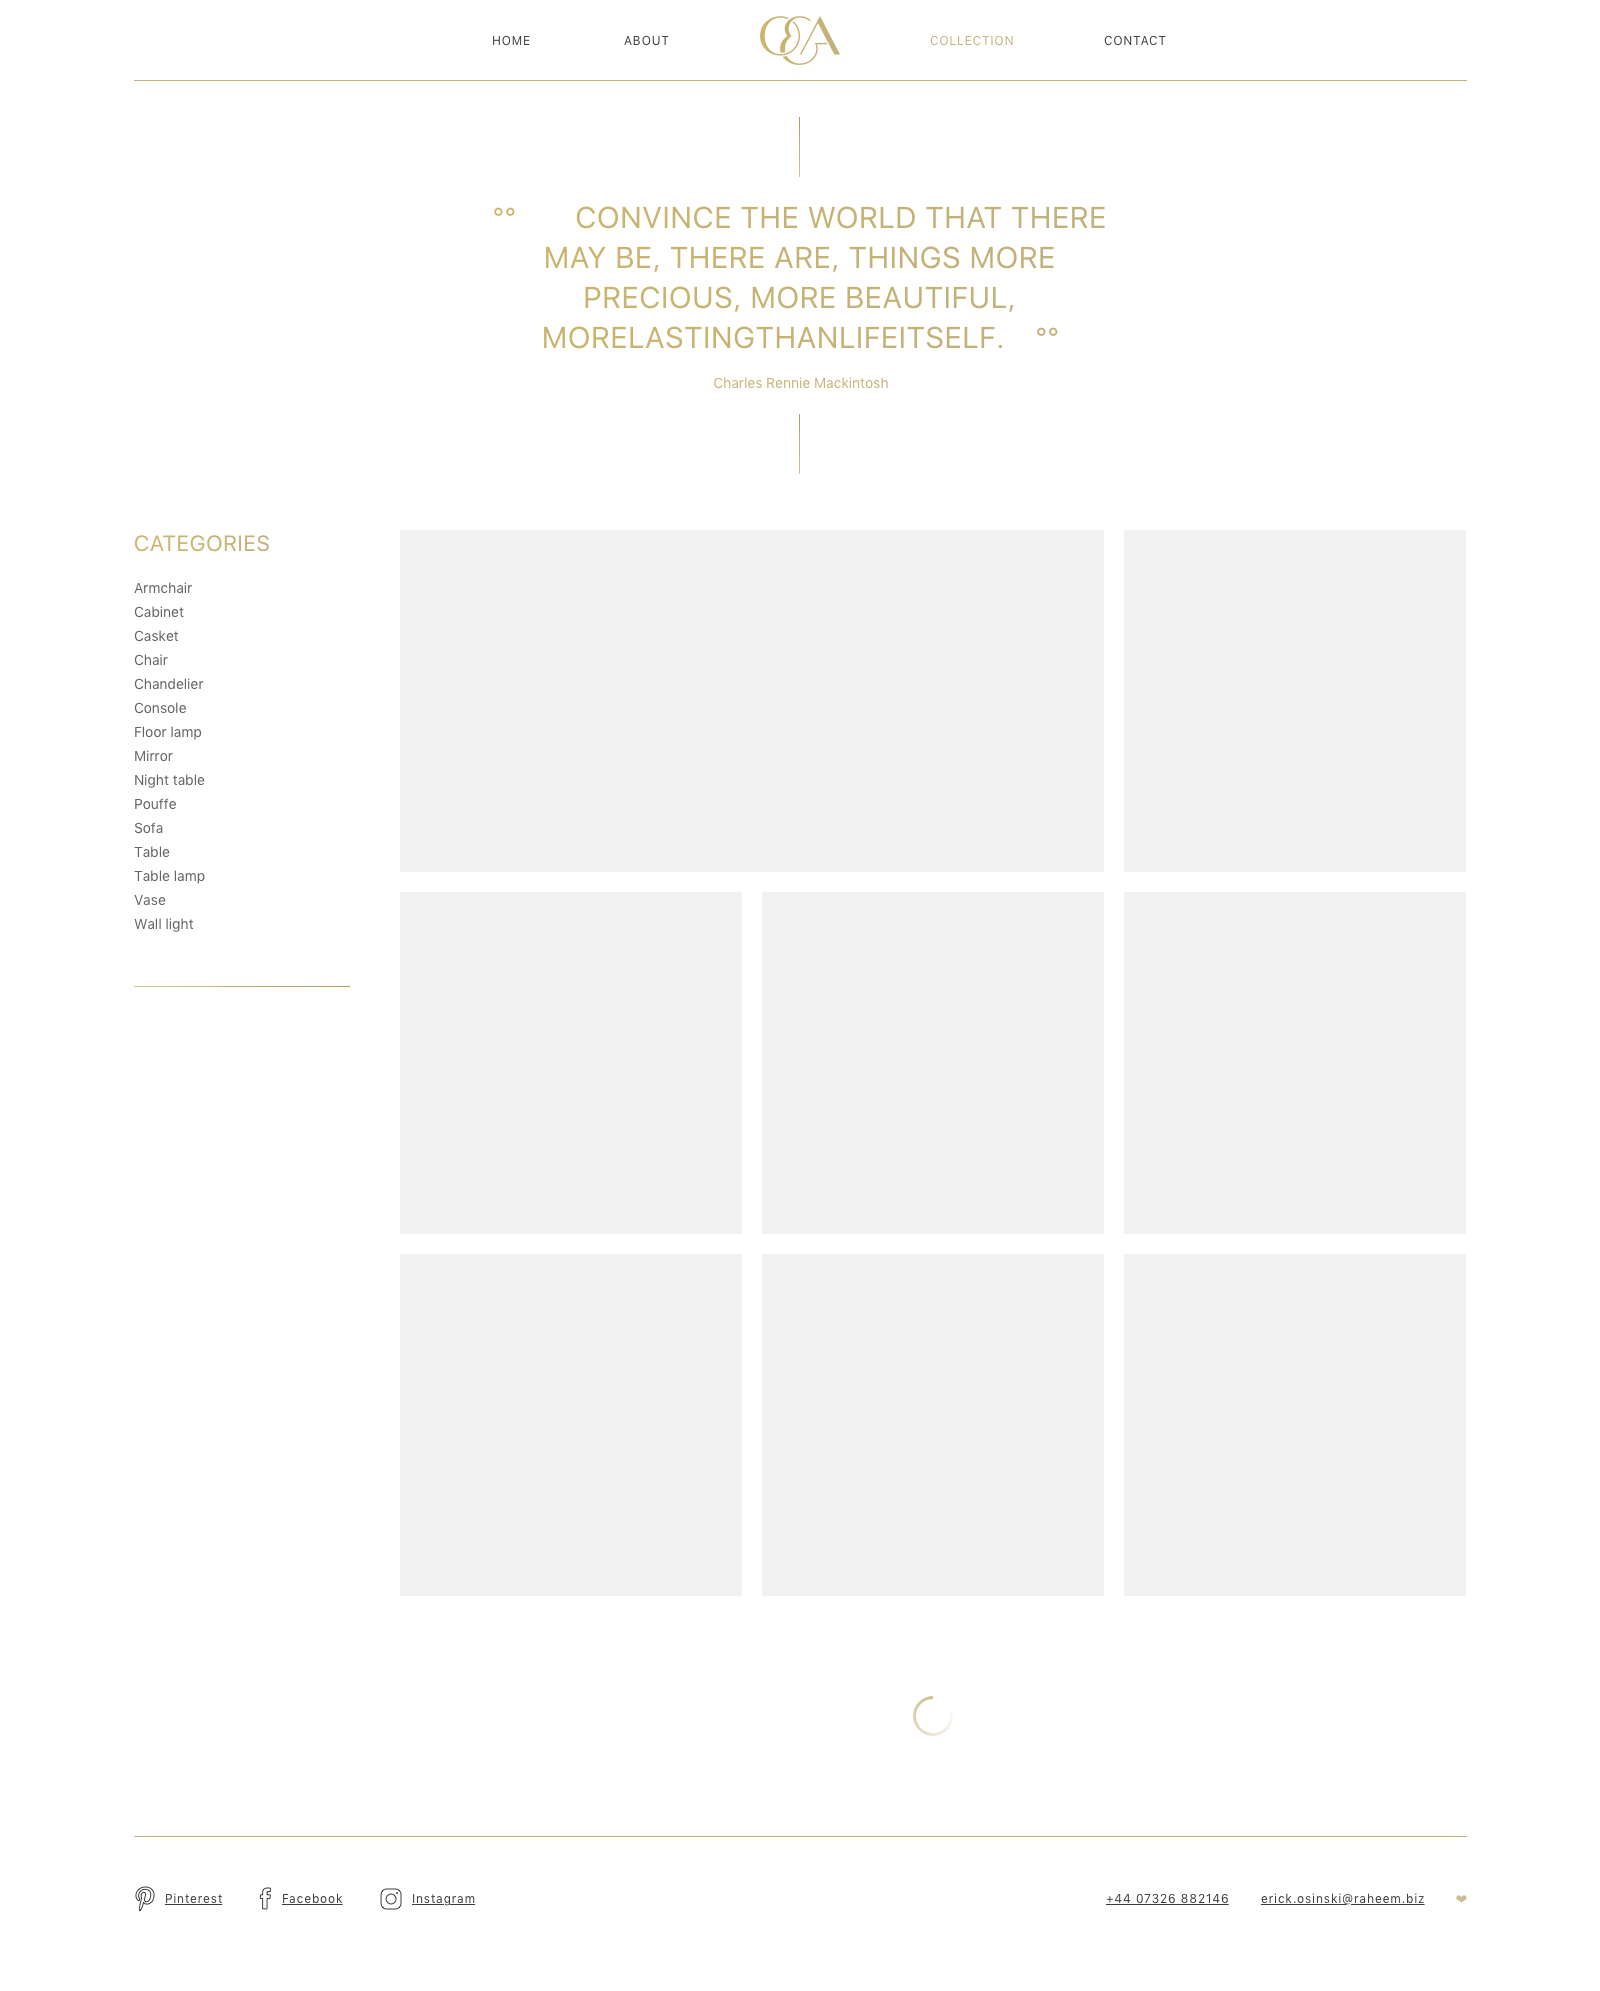
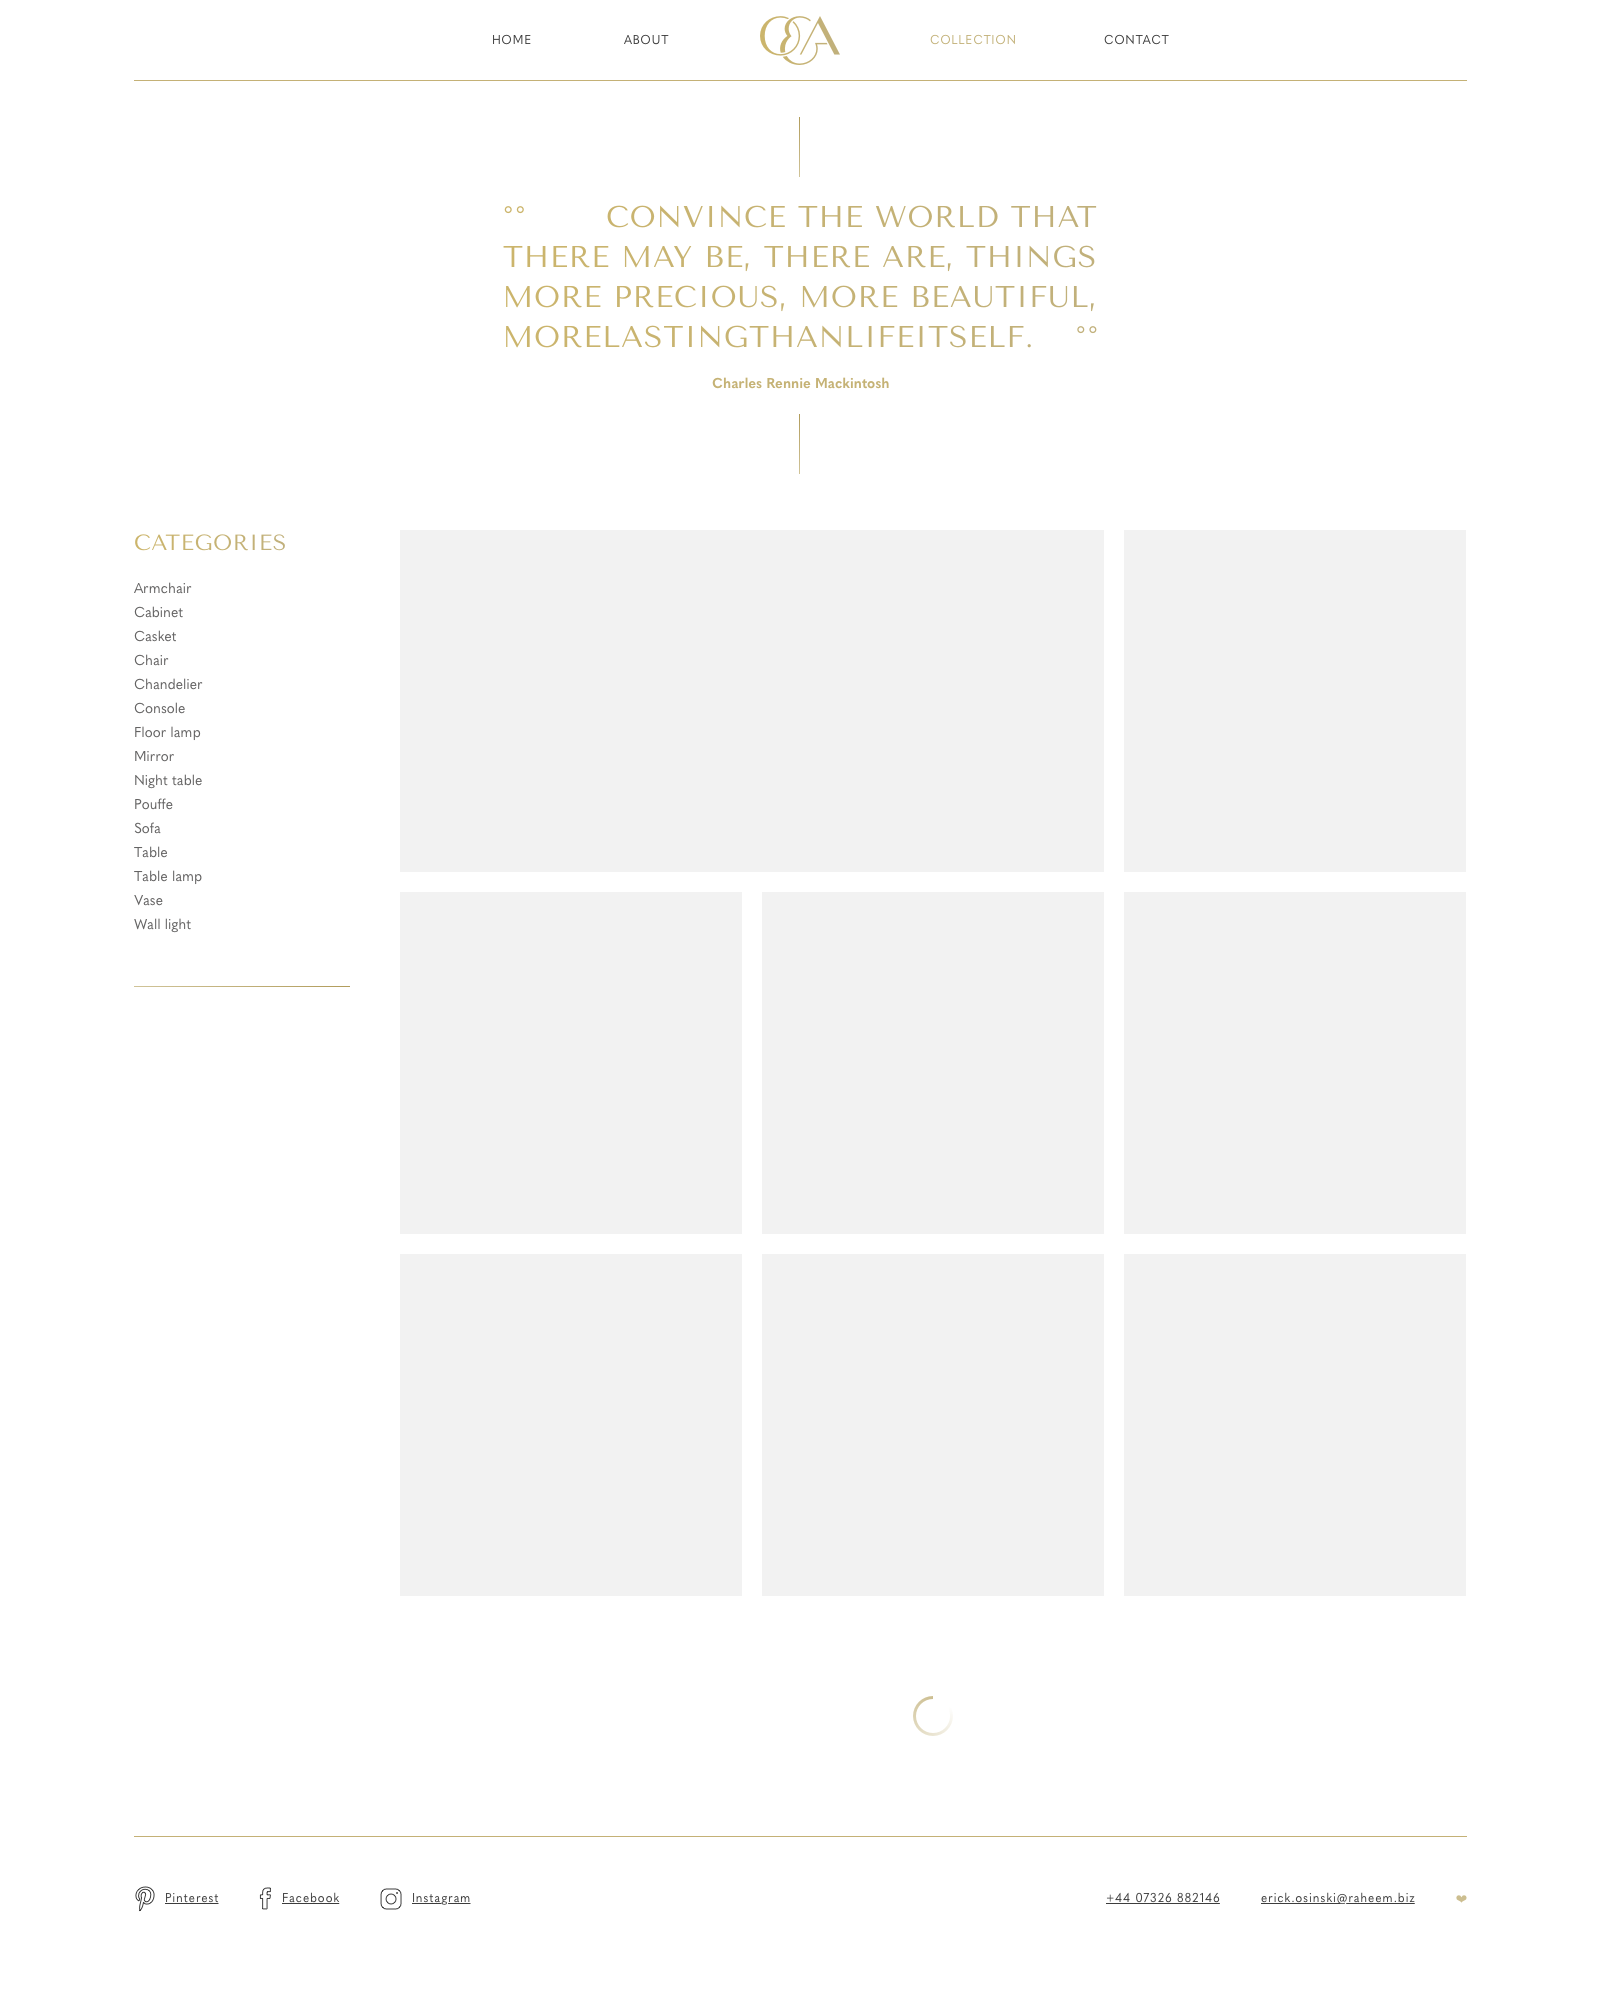
Collection page

diff --git a/src/sass/style.sass b/src/sass/style.sass
@@ -52,6 +52,9 @@ body
   letter-spacing: 0.86px
   max-width: 1600px
   margin: 0 auto
+  text-rendering: optimizeLegibility
+  -webkit-font-smoothing: antialiased
+  -moz-osx-font-smoothing: grayscale
 
 =gradient-text
   // color: $primary-color
@@ -84,4 +87,133 @@ body
   text-transform: uppercase
   text-align: center
 
+.section-title
+  +gradient-text-simple
+  +tenor
+
+  font-size: 22px
+  text-transform: uppercase
+
 @import ./blocks/index
+
+.quotation-block
+  text-align: center
+  max-width: 637px
+  padding-top: 80px
+  padding-bottom: 80px
+  position: relative
+  margin: 36px auto 56px
+
+
+  &::before,
+  &::after
+    content: ''
+    position: absolute
+    left: 50%
+    margin-left: -1px
+    display: block
+    width: 1px
+    height: 60px
+    background: #C1B07A
+    background-image: linear-gradient(0deg, rgba(255,255,255,0.25) 0%, rgba(0,0,0,0.25) 100%)
+
+  &::after
+    top: 0
+  &::before
+    bottom: 0
+
+  .text
+    display: inline-block
+    +tenor
+    font-size: 30px
+    color: $primary-text-color
+    line-height: 40px
+    max-width: 637px
+    text-align: justify
+    &::before
+      content: '°°       '
+    &::after
+      content: '       °°'
+      white-space: nowrap
+  .author
+    display: inline-block
+    font-weight: bold
+    color: #c5b275
+    letter-spacing: 0
+    line-height: 24px
+    margin-top: 14px
+
+
+.categories-block
+  text-align: left
+
+  &::after
+    content: ''
+    margin-top: 50px
+    display: block
+    width: 100%
+    height: 1px
+    background: #C1B07A
+    background-image: linear-gradient(90deg, rgba(255,255,255,0.25) 0%, rgba(0,0,0,0.25) 100%)
+
+  .list
+    margin-top: 20px
+    li
+      color: #646363
+      line-height: 24px
+    a
+      color: inherit
+
+.collection-gallery
+  font-size: 0
+  line-height: 0
+  margin: -10px
+
+  .item
+    display: inline-block
+    width: 33.3333%
+    position: relative
+    padding: 10px
+    background-size: cover
+    background-position: 0 0
+    background-repeat: no-repeat
+
+    &__in
+      width: 100%
+
+    &_doubled
+      width: 66.6666%
+
+    img
+      width: 100%
+      height: 100%
+
+@keyframes rotate
+  from
+    transform: rotate(0deg)
+  to
+    transform: rotate(359deg)
+
+.collection-gallery-loader
+  display: inline-block
+
+  img
+    height: 40px
+    width: 40px
+    animation: rotate 1s linear infinite
+
+.collection-page
+  display: flex
+  flex-direction: row
+  flex-wrap: nowrap
+  padding: 0 134px 100px
+
+  &__categories
+    flex: 0 0 216px
+  &__gallery
+    flex: 1 1 auto
+    margin-left: 50px
+
+  &__loader
+    margin-top: 100px
+    text-align: center

diff --git a/src/sass/components/header.sass b/src/sass/components/header.sass
@@ -2,10 +2,13 @@
 .header
   text-align: center
   overflow: hidden
-  padding: 16px 0 15px
+  padding: 0 133px
   position: relative
   background-color: white
   line-height: 0
+  &__in
+    padding: 16px 0 15px
+    border-bottom: 1px solid #c4b176
 
 .nav
   display: inline-block

diff --git a/gulp/tasks/html.js b/gulp/tasks/html.js
@@ -6,6 +6,7 @@ var htmlmin = require('gulp-htmlmin');
 var s18n = require('s18n');
 var gulpIf = require('gulp-if');
 var debug = require('gulp-debug');
+var notify = require('gulp-notify');
 
 var jade = require('gulp-jade');
 var rename = require('gulp-rename');

diff --git a/src/sass/components/slider.sass b/src/sass/components/slider.sass
@@ -1,3 +1,7 @@
+
+.header + .slider
+  margin-top: -1px
+
 .slider
   // height: calc(100vh - 80px)
   // height: 700px
